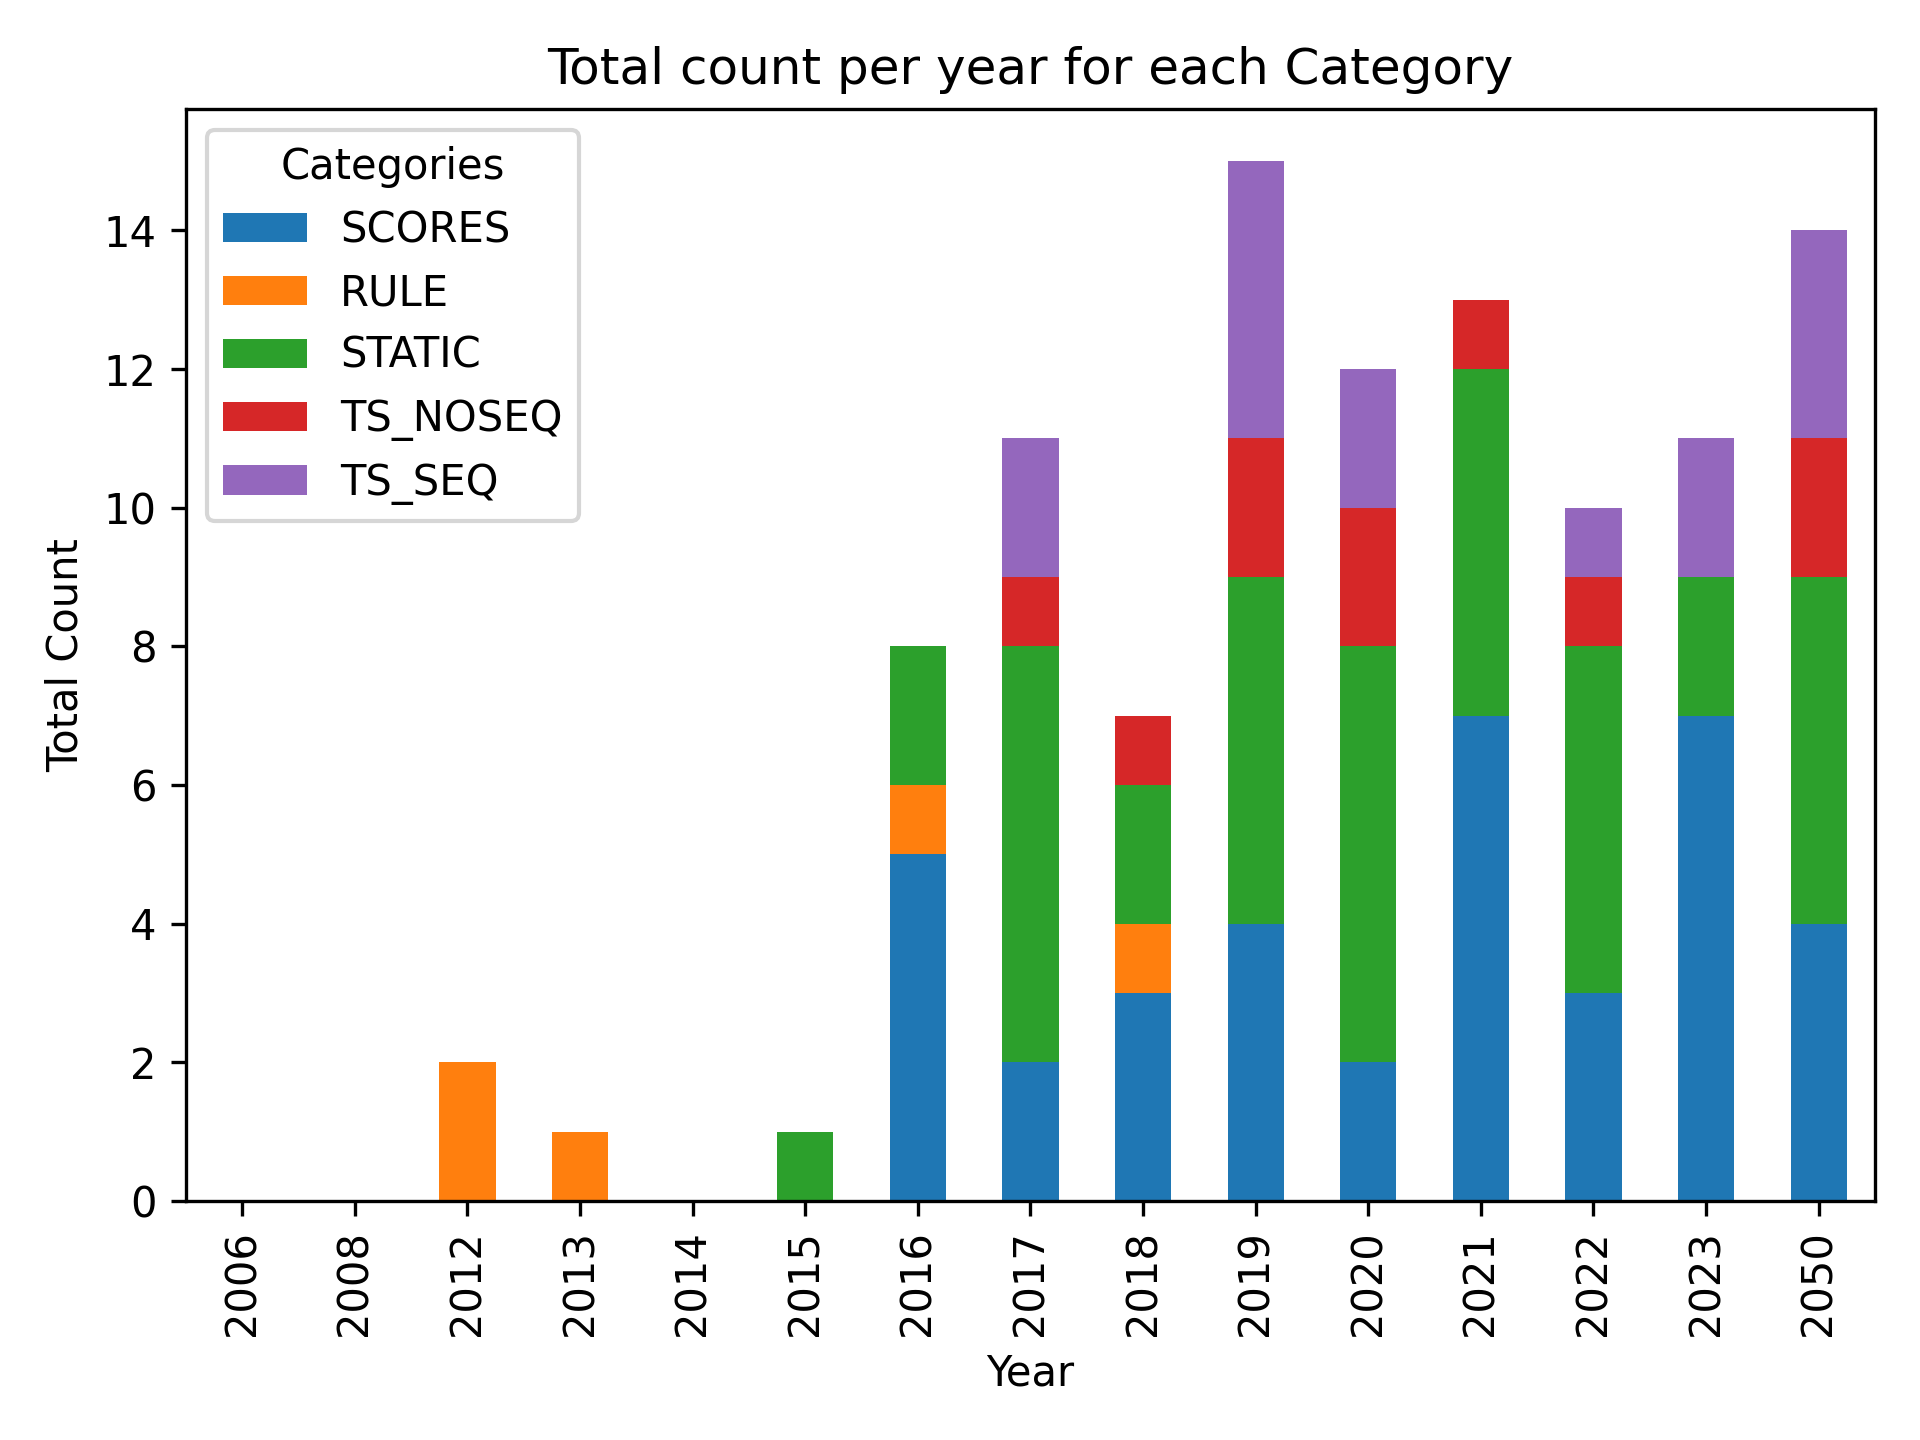
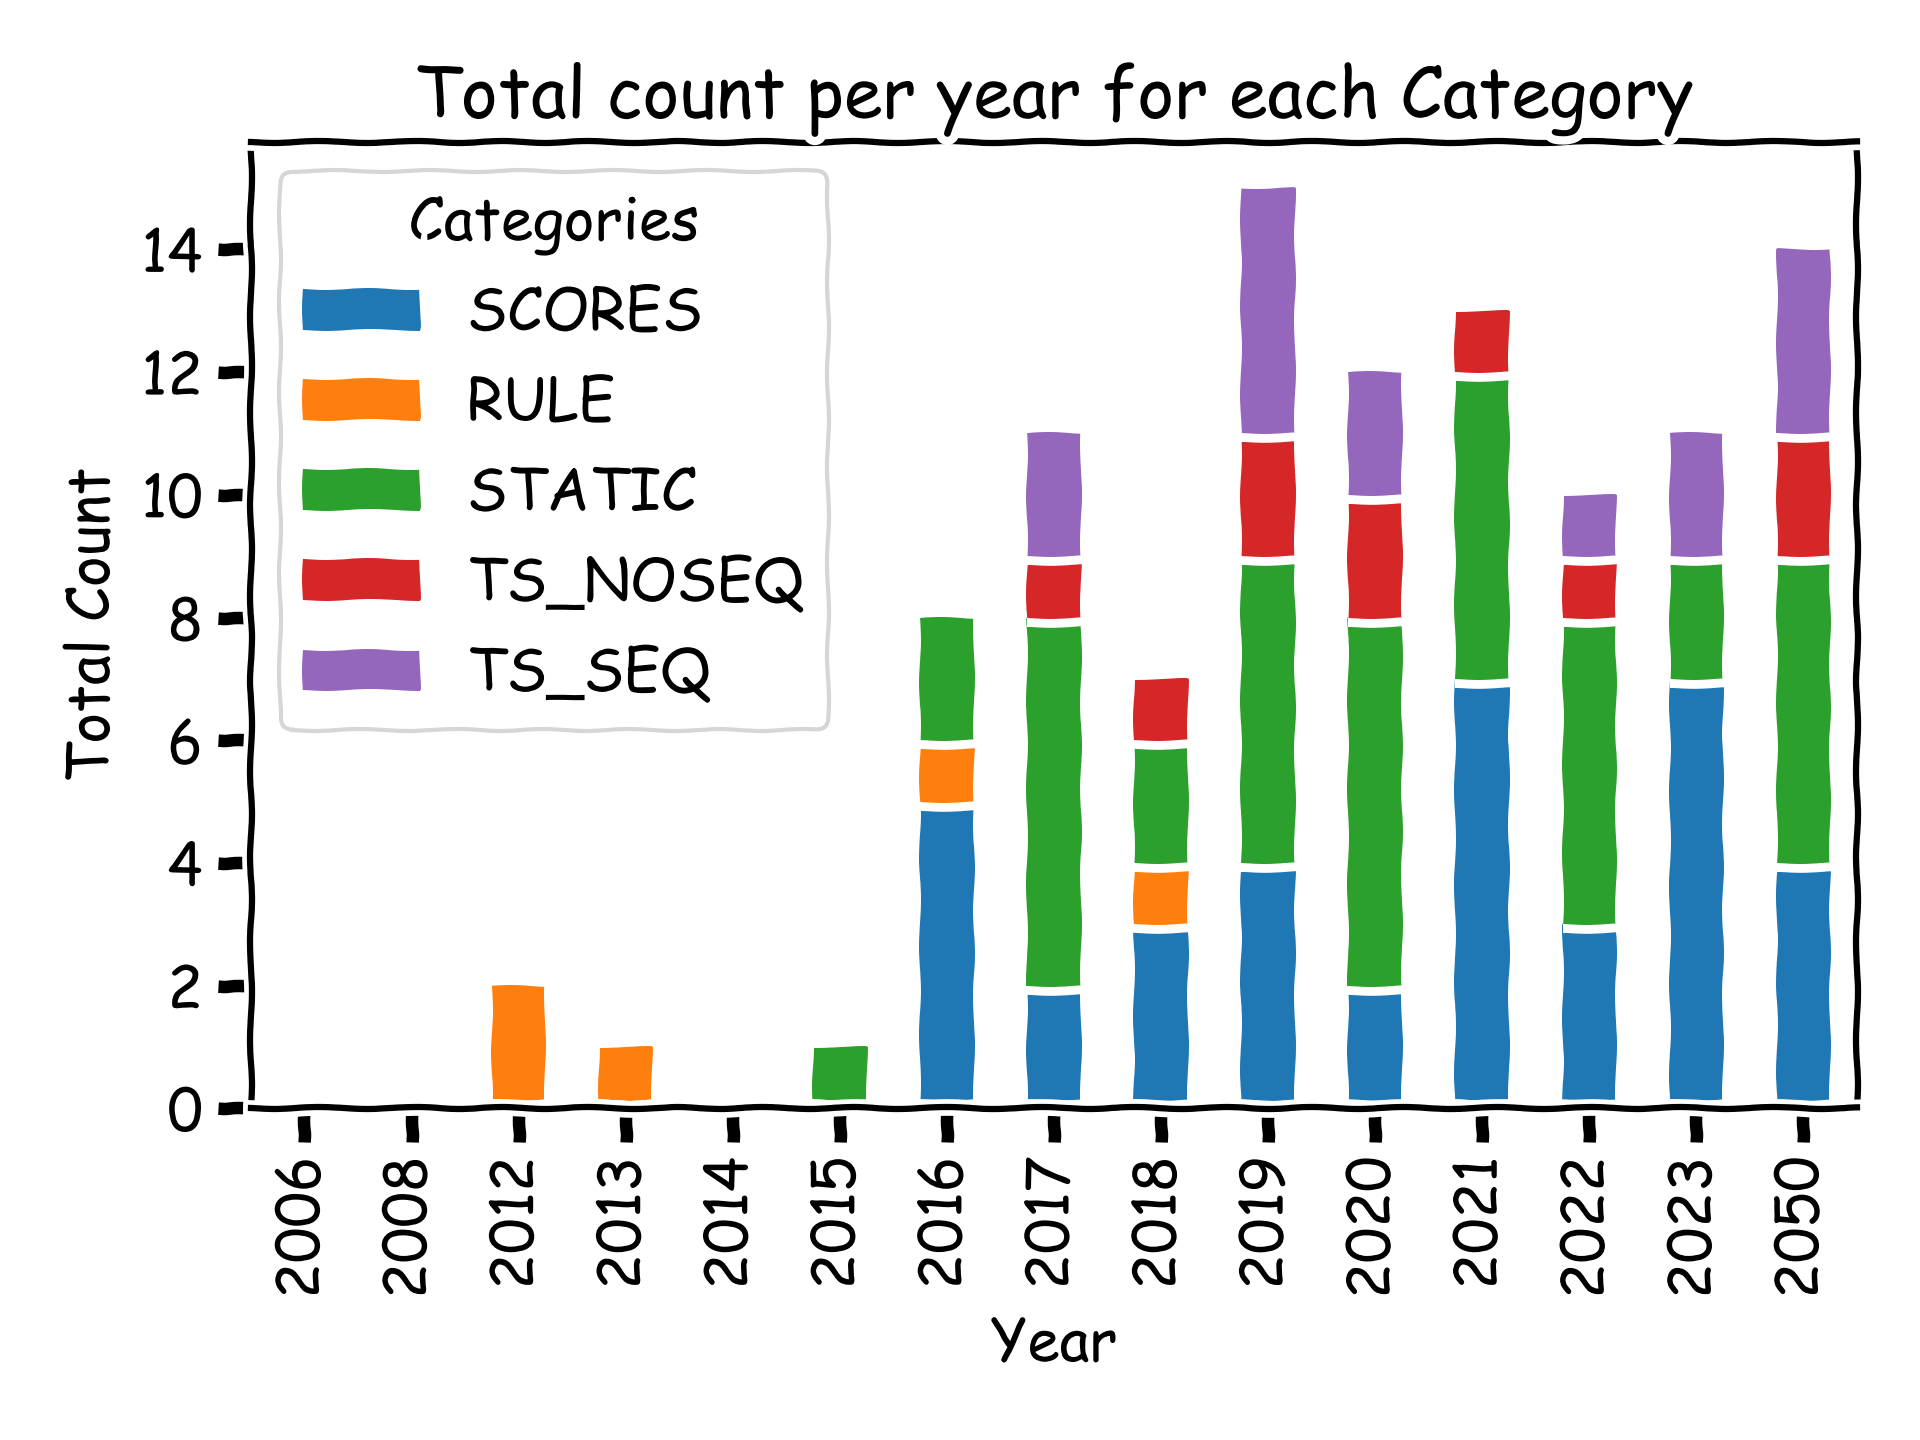
~ hand drawn style

diff --git a/scripts/plot_manuscript_topics_by_year.py b/scripts/plot_manuscript_topics_by_year.py
@@ -1,14 +1,67 @@
 # Libraries
 import pandas as pd 
 import matplotlib.pyplot as plt
-from pathlib import Path
 
-path = '../material/supplementary-material.xlsx'
+from pathlib import Path
+from matplotlib import patheffects
+
+# Enable XKCD mode (hand drawn style)
+plt.xkcd()
+
+# Set fallback font manually
+plt.rcParams.update({
+    'font.family': 'Comic Sans MS, DejaVu Sans, sans-serif'
+})
+
+# ---------------------------------------------
+# Methods
+# ---------------------------------------------
+def apply_sketch_style(fig):
+    """
+    Applies sketch-like styling to a given Matplotlib figure.
+    
+    Parameters:
+    - fig: Matplotlib figure object to style.
+    """
+    # Set sketch-like font
+    plt.rcParams["font.family"] = "Comic Sans MS"
+    
+    # Set background color for figure and axes
+    fig.patch.set_facecolor('#f8f4e3')
+    
+    # Apply style to all axes in the figure
+    for ax in fig.get_axes():
+        # Set background color for axes
+        ax.set_facecolor('#f8f4e3')
+        
+        # Add grid with light pencil color
+        ax.grid(True, color='gray', linestyle=':', linewidth=0.5, alpha=0.5)
+        
+        # Style for axis labels and title
+        for item in [ax.title, ax.xaxis.label, ax.yaxis.label]:
+            item.set_path_effects([patheffects.withStroke(linewidth=1.5, foreground="white")])
+            item.set_color('black')
+        
+        # Style for tick labels
+        for tick in ax.get_xticklabels() + ax.get_yticklabels():
+            tick.set_color('black')
+            tick.set_path_effects([patheffects.withStroke(linewidth=1.5, foreground="white")])
+        
+        # Apply path effects to lines and bars (to all artist elements)
+        for line in ax.get_lines() + ax.patches:
+            line.set_path_effects([patheffects.withStroke(linewidth=3, foreground="white")])
+            
+    # Redraw the figure to apply changes
+    fig.canvas.draw()
+
 
 
 # ---------------------
 # Load data
 # ---------------------
+# path
+path = '../material/supplementary-material.xlsx'
+
 # Load data
 df = pd.read_excel(io=path, 
 	sheet_name='STUDIES', engine='openpyxl',
@@ -29,26 +82,28 @@ df.year = df.year.astype(int)
 df.criteria = df.criteria.astype(str)
 
 # Remove some not useful categories
-df = df[~df.criteria.isin(['Mortality', 'Septic Shock'])]
+df = df[~df.criteria.isin(['Mortality'])]
 
 # Format the rest of categories
-df.criteria = df.criteria.str.replace(r'.*sepsis.*', 'Sepsis', case=False, regex=True)
-df.criteria = df.criteria.str.replace(r'.*bacteremia.*', 'Bacteremia', case=False, regex=True)
+df.criteria = df.criteria.str.replace(
+	r'.*Septic Shock.*', 'Septic Shock', case=False, regex=True)
+df.criteria = df.criteria.str.replace(
+	r'.*sepsis.*', 'Sepsis', case=False, regex=True)
+df.criteria = df.criteria.str.replace(
+	r'.*bacteremia.*', 'Bacteremia', case=False, regex=True)
 df.criteria = df.criteria.replace({
 	'Positive culture': 'Bacteremia',
 	'Infection': 'BSI',
-	})
-
-
-# Show
-print(df)
+	'Sepsis\nSeptic Shock': 'Sepsis'
+})
 
 
 # ---------------------
 # Display pandas
 # ---------------------
 # Group by 'Year' and 'Type' and count occurrences
-df_counts = df.groupby(['year', 'criteria']).size().unstack(fill_value=0)
+df_counts = df.groupby(['year', 'criteria']) \
+	.size().unstack(fill_value=0)
 
 # Create stacked bar plot
 df_counts.plot(kind='bar', stacked=True)
@@ -60,6 +115,13 @@ plt.title('Number of manuscripts (by topic) over the years')
 plt.legend(title='Type')
 plt.xticks(rotation=90)  # Rotate x-axis labels if needed
 
+# Apply the sketch style
+#apply_sketch_style(plt.gcf())
+
+# Adjust
+plt.tight_layout()
+
+# Save
 plt.savefig("%s.png" % Path(__file__).stem, dpi=300)
 
 # Show plot

diff --git a/scripts/plot_manuscript_models_by_year.py b/scripts/plot_manuscript_models_by_year.py
@@ -1,14 +1,25 @@
 # Libraries
 import pandas as pd 
 import matplotlib.pyplot as plt
-from pathlib import Path
 
-path = '../material/supplementary-material.xlsx'
+from pathlib import Path
+from matplotlib import patheffects
+
+# Enable XKCD mode (hand drawn style)
+plt.xkcd()
+
+# Set fallback font manually
+plt.rcParams.update({
+    'font.family': 'Comic Sans MS, DejaVu Sans, sans-serif'
+})
 
 
 # ---------------------
 # Load data
 # ---------------------
+# Path
+path = '../material/supplementary-material.xlsx'
+
 # Load data
 df = pd.read_excel(io=path, 
 	sheet_name='STUDIES', engine='openpyxl',
@@ -85,67 +96,9 @@ plt.ylabel('Total Count')
 plt.legend(title='Categories')
 
 # Show plot
-plt.xticks(rotation=90)  # Keep x-axis labels horizontal
-plt.tight_layout()       # Adjust layout to make room for labels
+plt.xticks(rotation=90)  
+plt.tight_layout()       
 plt.savefig("%s.png" % Path(__file__).stem, dpi=300)
-
-
-# ----------------------------
-# From tags column
-# ----------------------------
-
-REMOVE = [
-	'timeseries', 'arxiv', 'Predictors', 'PhD', 
-	'TEST', 'NLP', 'SERA', 'MGP', 'TPF', 'ENR'
-]
-
-groups1 = {
-    'STATIC': [
-    	'RFC', 'LGBM', 'DTC', 'LGBM', 'XGB', 
-    	'Insight', 'LSVM', 'LR', 'SVM', 'GNB', 'RLR'
-    ],
-    'TS_NOSEQ': ['ANN', 'DFN', 'CNN', 'MLP', 'FNN'],
-    'TS_SEQ': ['GRU', 'LSTM', 'RNN'],
-    'RULE': ['PCT', 'PSEP', 'Rule']
-}
-
-
-
-# Function to assign group names based on the value
-def assign_group(value, groups):
-    for group_name, group_values in groups.items():
-        if value in group_values:
-            return group_name
-    return value
-    return 'Other'  # Default group if not found
-
-
-# Step 1: Format and explode
-df.tags = df.tags.str.replace(r'\s+', '', regex=True) \
-	.str.replace('|', ',', regex=False) \
-	.str.split(",").explode('tags') 
-
-# Step 2: Remove not useful tags
-df = df[~df.tags.isin(REMOVE)]
-
-# Step 3: Group
-df['group'] = df.tags.apply(assign_group, args=(groups,))
-
-# ---------------------
-# Display pandas
-# ---------------------
-# Group by 'Year' and 'Type' and count occurrences
-df_counts = df.groupby(['year', 'group']).size().unstack(fill_value=0)
-
-# Create stacked bar plot
-df_counts.plot(kind='bar', stacked=True)
-
-# Add labels and title
-plt.xlabel('Year')
-plt.ylabel('Count')
-plt.title('Number of manuscripts (by model/approach) over the years')
-plt.legend(title='Type')
-plt.xticks(rotation=90)  # Rotate x-axis labels if needed
 
 # Show plot
 plt.show()
